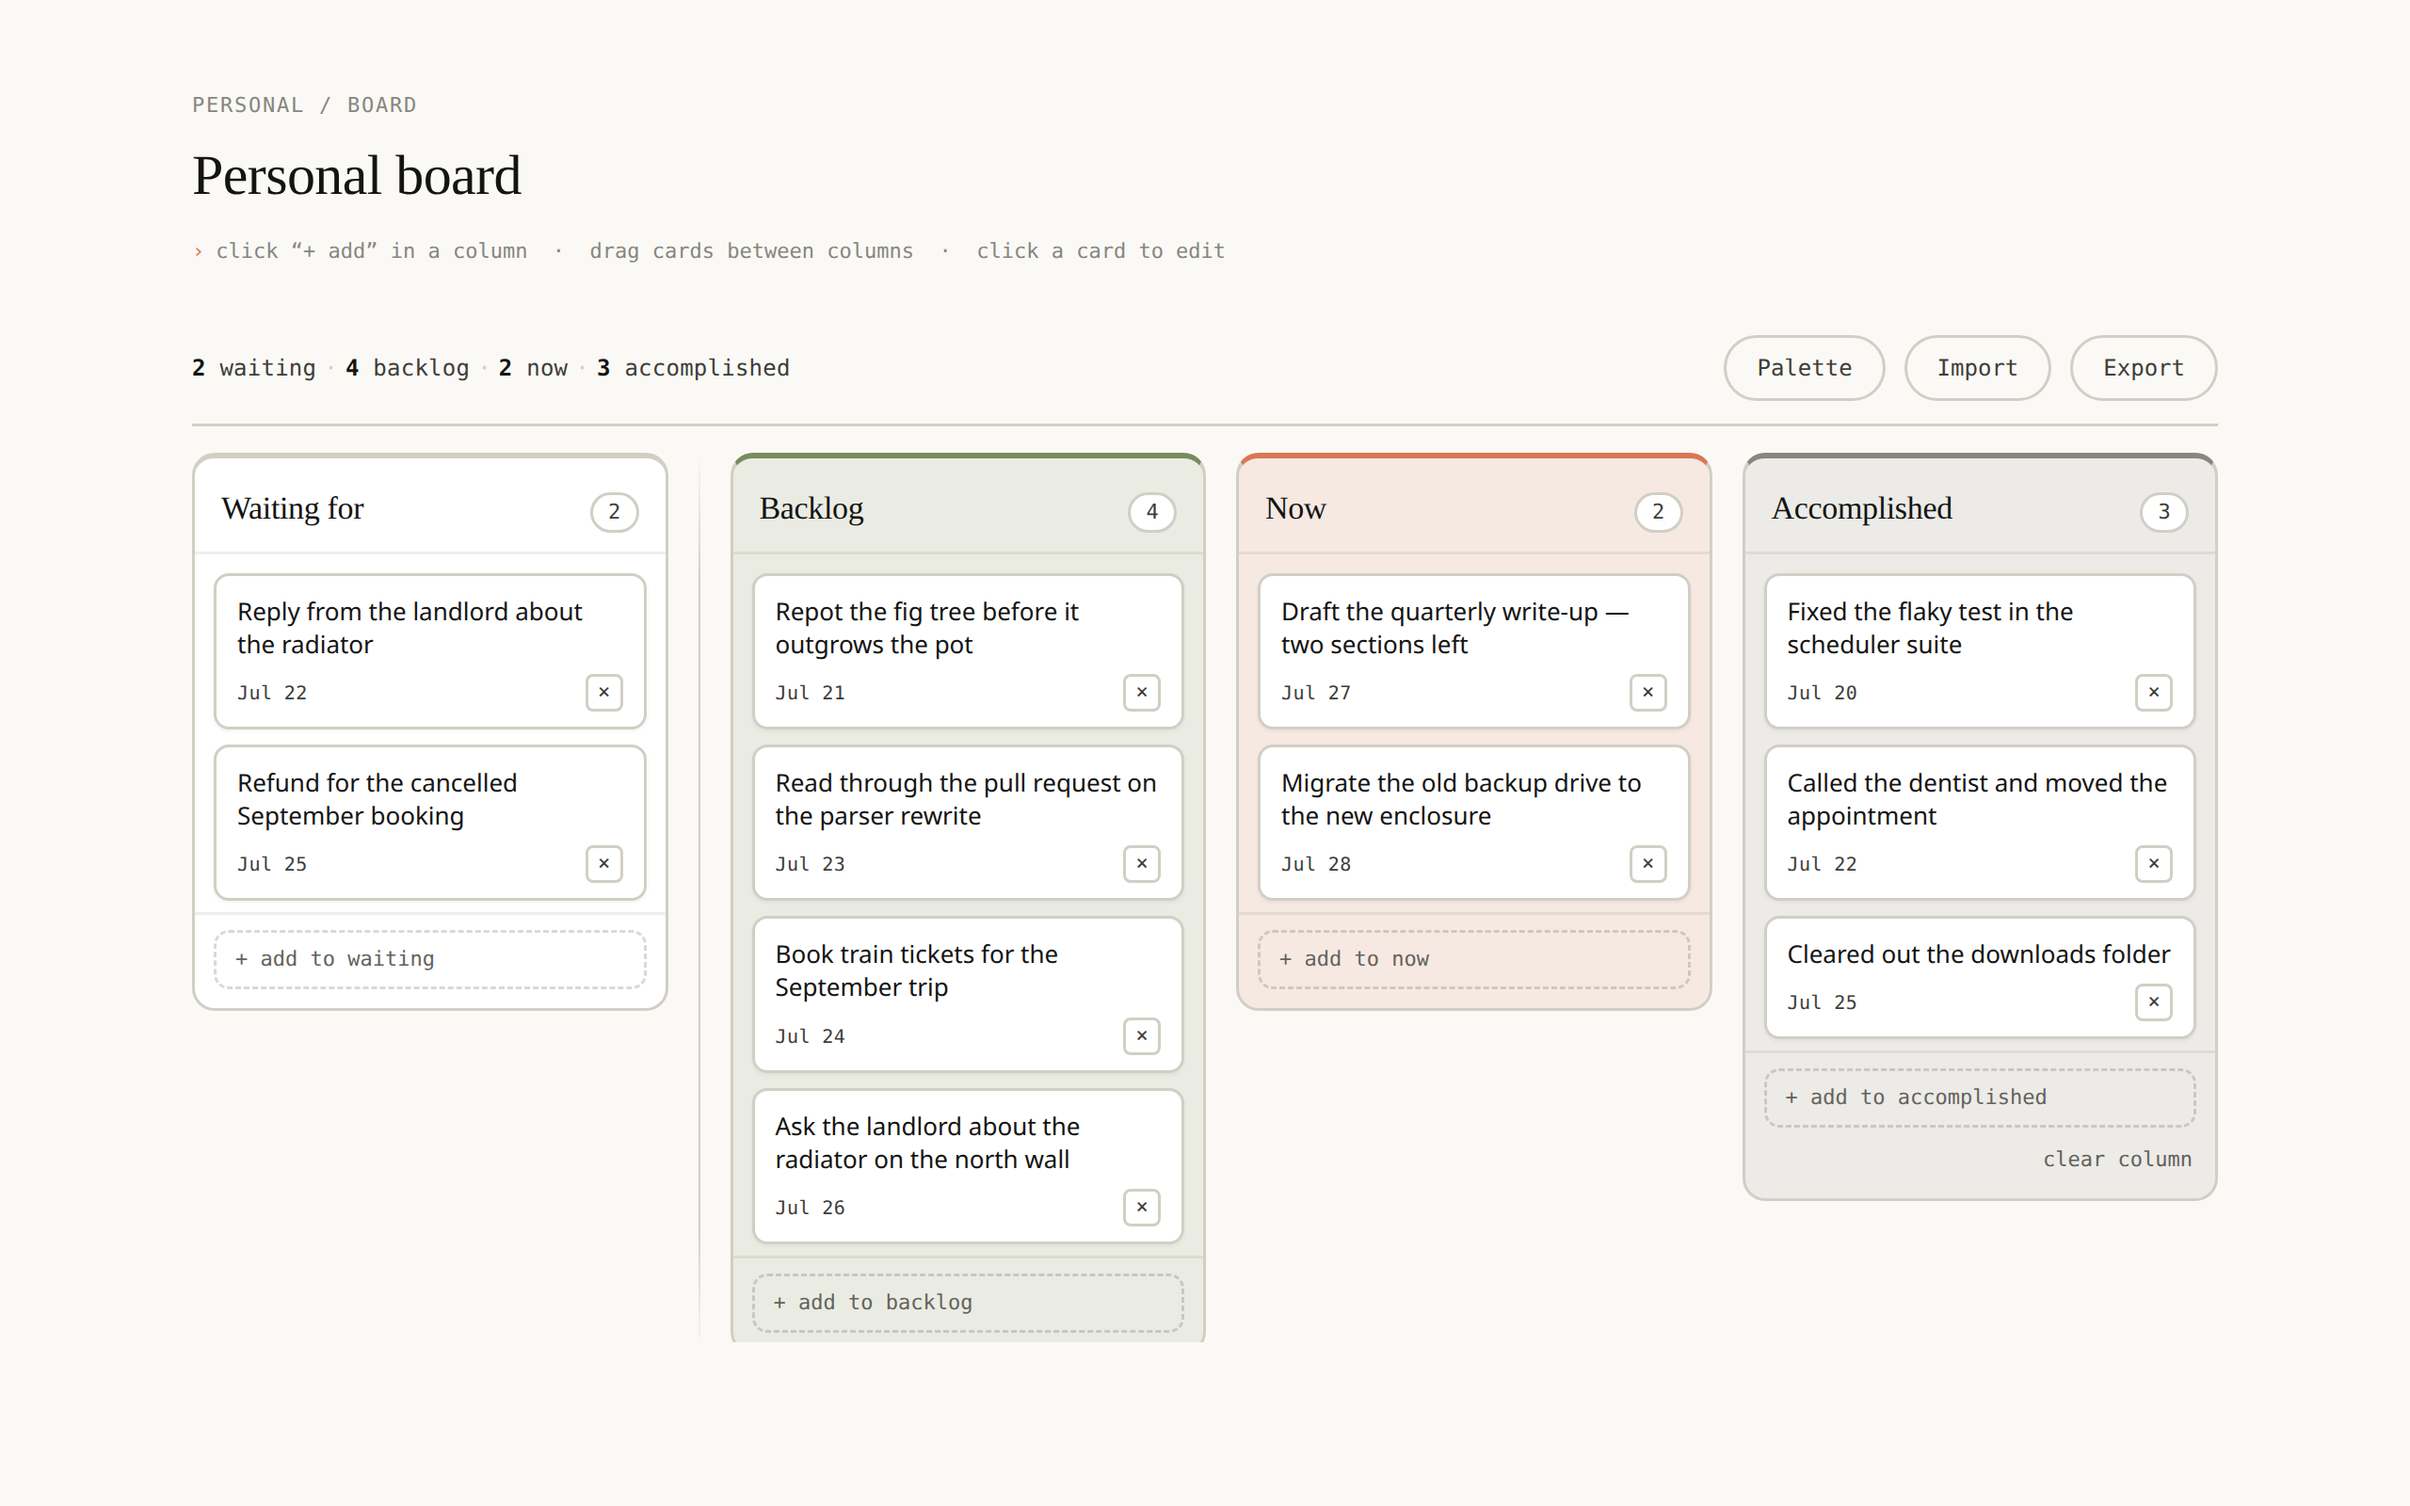
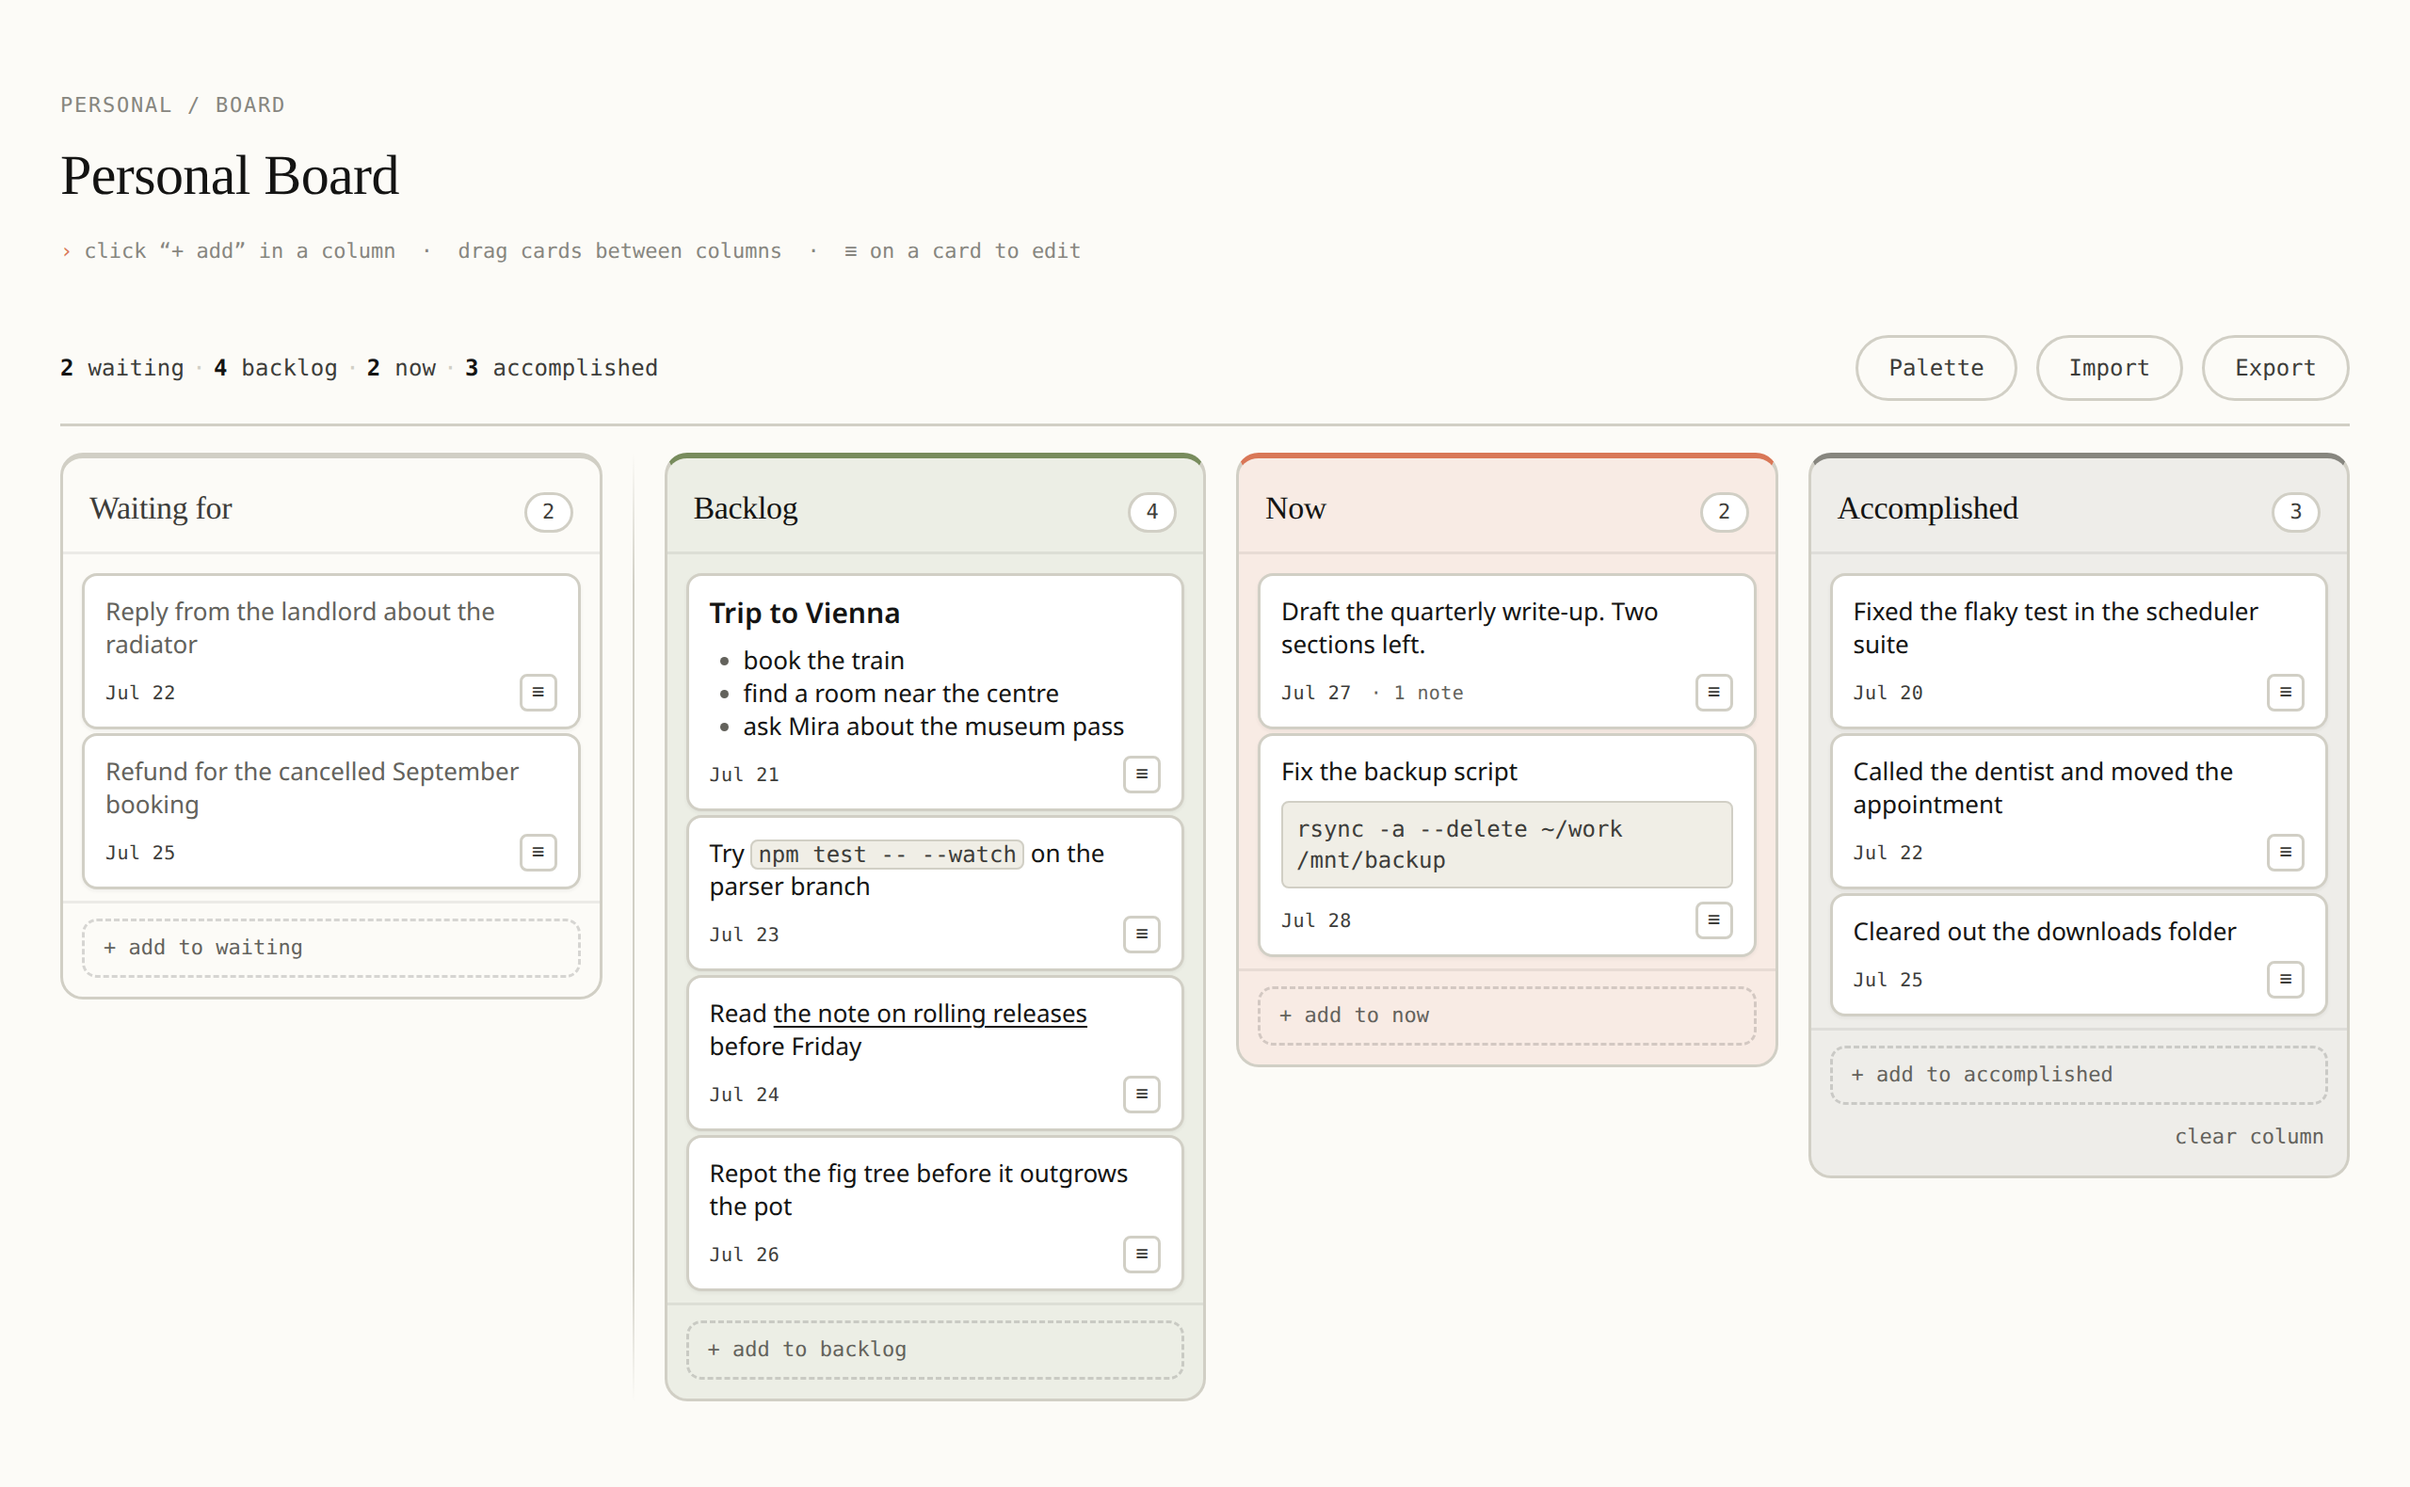
New screenshot

diff --git a/index.html b/index.html
@@ -801,7 +801,7 @@
   <header>
     <div class="eyebrow">personal / board</div>
     <h1>Personal Board</h1>
-    <div class="hintline">click “+ add” in a column &nbsp;·&nbsp; drag cards between columns &nbsp;·&nbsp; click a card to edit</div>
+    <div class="hintline">click “+ add” in a column &nbsp;·&nbsp; drag cards between columns &nbsp;·&nbsp; ≡ on a card to edit</div>
   </header>
 
   <div class="toolbar">

diff --git a/README.md b/README.md
@@ -8,7 +8,9 @@ Open `index.html` in a browser.
 separates this column from the other three. No palette gives this column a
 colour. It uses the page background. Its cards are white and its text is grey.
 
-![The board with a few cards in each column](doc/board.png)
+![The board with a few cards in each column. The cards show a heading and a
+list, a code chip, a fenced block, a link, and a card with one
+note](doc/board.png)
 
 ## Use
 
